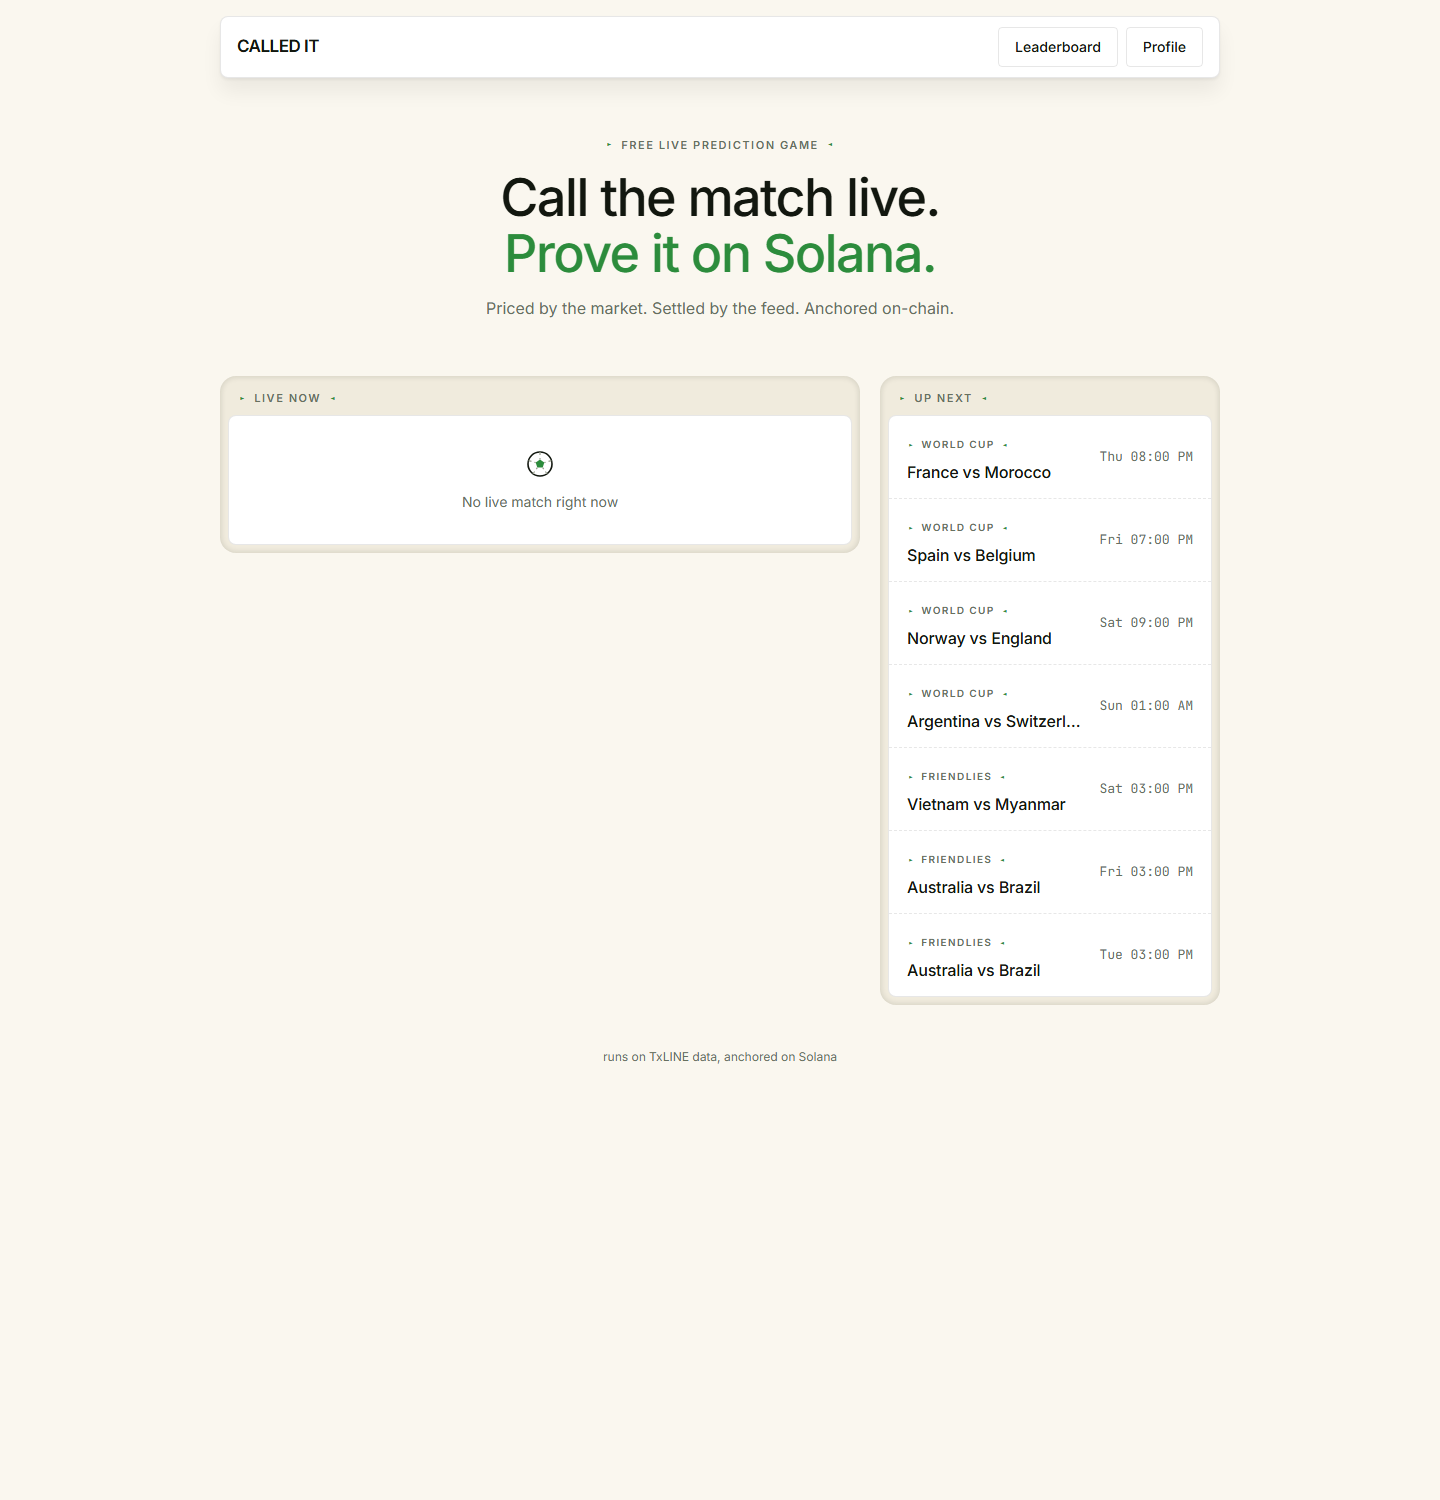
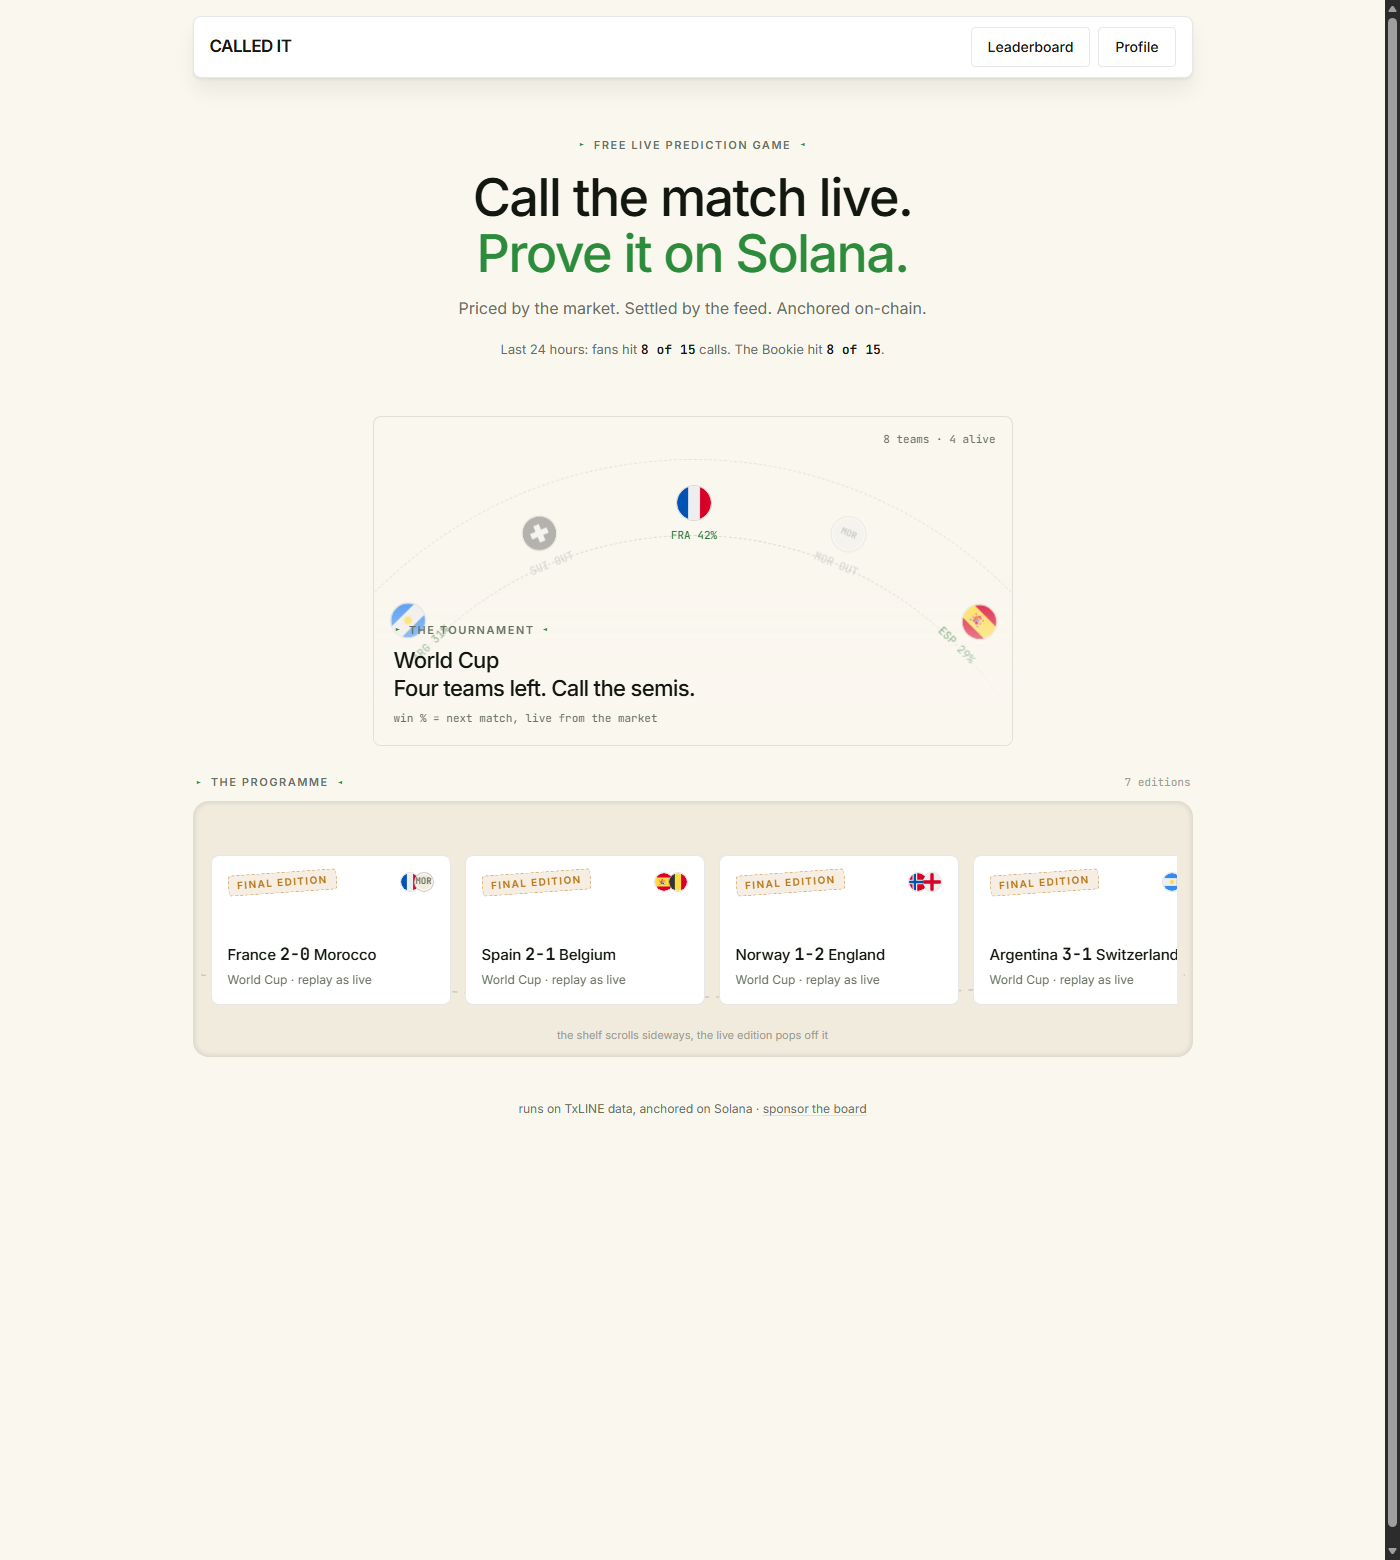
docs: rewrite README for the wheel, living pitch and sponsor surfaces

diff --git a/apps/web/lib/teams.ts b/apps/web/lib/teams.ts
@@ -30,6 +30,7 @@ const TEAM_META: Record<string, TeamMeta> = {
   Belgium: { code: 'BEL', iso: 'be' },
   Paraguay: { code: 'PAR', iso: 'py' },
   Norway: { code: 'NOR', iso: 'no' },
+  Morocco: { code: 'MAR', iso: 'ma' },
   Vietnam: { code: 'VIE', iso: 'vn' },
   Myanmar: { code: 'MYA', iso: 'mm' },
   Australia: { code: 'AUS', iso: 'au' },

diff --git a/README.md b/README.md
@@ -21,16 +21,15 @@ Experiences track.
 ![network](https://img.shields.io/badge/network-Solana%20mainnet-12170F)
 ![data](https://img.shields.io/badge/data-TxLINE%20StablePrice%20SSE-1F6B2C)
 ![stack](https://img.shields.io/badge/stack-Next%2016%20%2B%20Node%2022%20%2B%20TS-12170F)
-![tests](https://img.shields.io/badge/tests-93%20passing-1F6B2C)
+![tests](https://img.shields.io/badge/tests-133%20passing-1F6B2C)
 ![app](https://img.shields.io/badge/app-live%20on%20Vercel-2C8C3C)
 ![proof](https://img.shields.io/badge/proof-Merkle%20memo%20on%20Solana-B87514)
 
-![The lobby: the matchday programme with the live tray and the kickoff schedule](docs/screenshots/01-lobby.png)
+![The lobby: the tournament wheel over the programme rail, final scores read from the tapes](docs/screenshots/01-lobby.png)
 
-<p align="center">
-  <img src="docs/screenshots/02-receipt.png" width="460"
-    alt="A public receipt: merkle check VALID, oracle VERIFIED, anchored on Solana">
-</p>
+| The living pitch: both elevens, benches, live stat badges           | The proof: merkle VALID, oracle VERIFIED, anchored on Solana        |
+| ------------------------------------------------------------------- | ------------------------------------------------------------------- |
+| ![Kickoff XI on the pitch](docs/screenshots/02-pitch-xi.png)         | ![A public receipt](docs/screenshots/03-receipt.png)                 |
 
 ## 🎯 The problem
 
@@ -47,30 +46,44 @@ anchors every pick on Solana so the proof survives the group chat.
 
 ## 🧭 What it does
 
-- **Market-priced calls.** During a live match you lock short-window calls (a corner in
-  the next ten minutes, a goal before half-time). Points for a hit are `round(100 / p)`,
-  where `p` is the market's de-margined probability at lock time, capped at 2000.
-  Following the crowd pays little; reading an upset pays a lot.
-- **The Bookie, a ghost opponent.** Every call you make, a ghost named the Bookie makes
-  the market-favorite version of. Your leaderboard metric is your margin over the Bookie,
-  so you rise only by beating the market, not by picking safe.
-- **Provable receipts, live on mainnet.** Each locked pick is hashed into a Merkle tree
-  and its root is posted through a Solana memo transaction on a 60 second batch, before
-  the event resolves. The public receipt at `/r/{pickId}` carries the memo transaction,
-  the Merkle proof, a recomputed `proofValid` check, and, once TxODDS posts its daily
-  root, an oracle line proving the settled final against the Txoracle program on chain.
-  A receipt link unfurls in a group chat as a thermal-receipt card (Open Graph image).
-- **The Time Machine.** The worker tapes every match automatically; a finished match
-  replays through the same state and game pipeline at 1x, 10x, or 60x, with the same
-  lock flow and settlements. Replay points are session-scoped and never touch the
-  official leaderboard. Judges can play a World Cup match after the World Cup.
-- **A calibration profile.** Over many calls the app scores your edge against the market
-  and your Brier score, and buckets your hits by confidence, so a player learns whether
-  their reads are genuinely sharper than the line.
-- **A latency HUD.** The app shows the measured time from the feed emitting an event to
-  it reaching the screen, because a real-time claim should carry its own number.
-- **Streaks.** Consecutive hits multiply the next hit by 1.1 each, up to 3.0x, and a
-  miss resets the run.
+- **Market-priced calls, locked by holding.** During a live match you lock
+  short-window calls (a corner in the next ten minutes, a goal before half-time) with
+  a 500 ms hold-to-lock gesture. Points for a hit are `round(100 / p)`, where `p` is
+  the market's de-margined probability at lock time, capped at 2000. A quiet drain
+  bar shows the window closing, and when a missed window's event lands within 300
+  seconds of the deadline, an honest near-miss post-mortem prints the factual margin
+  ("the corner came 87', window closed 85'").
+- **The Bookie, a ghost opponent.** Every call you make, a ghost named the Bookie
+  makes the market-favorite version of. Your metric is your margin over the Bookie,
+  and the lobby's duel line tallies fans against the ghost over the last 24 hours.
+- **Provable receipts, live on mainnet.** Each locked pick is hashed into a Merkle
+  tree and its root is posted through a Solana memo transaction on a 60 second batch,
+  before the event resolves. The public receipt at `/r/{pickId}` carries the memo
+  transaction, the Merkle proof, a recomputed `proofValid` check, and, once TxODDS
+  posts its daily root, an oracle line proving the settled final against the Txoracle
+  program on chain. A receipt link unfurls in a group chat as a thermal-receipt card.
+- **The living pitch.** At kickoff the printed pitch presents both starting elevens
+  as jersey chips in the feed's real shirt colors, grouped in honest GK / DEF / MID /
+  FWD lines (the feed's position groups, never an invented formation), with benches
+  alongside. Substitutions swap players between pitch and bench, a red card grays the
+  player in place, scorers wear a live ball badge, and every chip opens a player card
+  with live counters and an attributed timeline ("115' Subbed on, 121' Goal"). A team
+  stats view lists both full squads with counters updating in real time.
+- **The Time Machine and the programme rail.** The worker tapes every match
+  automatically; a finished match replays through the same state and game pipeline at
+  1x, 10x, or 60x, with the same lock flow and settlements, session-scoped and off
+  the official leaderboard. Finished editions sit on the lobby's curved programme
+  rail with final scores read back from the tapes, under a tournament wheel that
+  marks eliminated teams OUT and prices the survivors' next match live.
+- **Three sponsorship surfaces.** A named match reskin (`?sponsor=` demo), a sponsor
+  line on shared receipts, and a self-serve board: anyone can buy ticker time in SOL
+  at `/sponsor`, priced by duration, tier, and demand; the worker builds the unsigned
+  transfer and verifies the payment on chain (amount, recipient, single-use memo)
+  before the name rides the header boards.
+- **A measured skill profile.** Calibration buckets, edge versus the market, a Brier
+  score, streaks that multiply the next hit by 1.1 up to 3.0x, and a latency HUD
+  showing the measured feed-to-screen delay, because a real-time claim should carry
+  its own number.
 
 ## 🏗 How it works
 
@@ -83,10 +96,11 @@ flowchart TD
     end
     subgraph worker["Worker on Railway, Node 22, 24/7"]
         ingest["ingest: dual SSE + reconnect"]
-        state["match state reducer"]
+        state["state reducer: score, momentum, squads"]
         engine["engine: price, resolve, Bookie, calibration"]
         commit["commitment batcher: Merkle root every 60s"]
         verify["oracle verifier: validate_stat view"]
+        sponsors["sponsor board: SOL quote + verify"]
         tapes["NDJSON tapes"]
         replay["Time Machine replay sessions"]
         fanout["HTTP + SSE fan-out"]
@@ -98,24 +112,25 @@ flowchart TD
         engine --> fanout
         engine --> commit
         verify --> fanout
+        sponsors --> fanout
     end
     subgraph db["Supabase, Postgres"]
-        picks["picks + settlements"]
-        boards["leaderboard views"]
+        picks["picks + settlements + sponsors"]
     end
     subgraph web["Web app, Next.js 16 on Vercel"]
-        lobby["lobby, live match, replay"]
+        lobby["lobby, live match, replay, /sponsor"]
         receipt["public receipt /r/id"]
     end
     subgraph solana["Solana mainnet"]
         memo["Memo tx, Merkle root"]
+        pay["sponsor payment tx"]
         txoracle["Txoracle daily_scores_roots"]
     end
-    scores -->|"goal, corner, card, Confirmed"| ingest
+    scores -->|"goal, corner, card, lineups, Confirmed"| ingest
     odds -->|"de-margined percent"| ingest
     engine -->|"settle_pick RPC"| picks
-    picks --> boards
     commit -->|"posted before outcomes"| memo
+    sponsors -->|"single-use memo check"| pay
     statval -->|"Merkle proof of finals"| verify
     verify -->|"view(), read-only"| txoracle
     lobby -->|"POST /picks, GET /live SSE"| fanout
@@ -125,24 +140,28 @@ flowchart TD
     classDef store fill:#FFFFFF,stroke:#67705F,color:#12170F
     classDef chain fill:#F6F3EA,stroke:#B87514,color:#12170F
     class scores,odds,statval feed
-    class ingest,state,engine,commit,verify,tapes,replay,fanout,lobby,receipt svc
-    class picks,boards store
-    class memo,txoracle chain
+    class ingest,state,engine,commit,verify,sponsors,tapes,replay,fanout,lobby,receipt svc
+    class picks store
+    class memo,pay,txoracle chain
 ```
 
 Beige, TxLINE inputs; green, CALLED IT services; white, Postgres; paper, Solana.
 
 The worker consumes both TxLINE streams as a single server-side subscriber and fans
 results out, so a match is read once no matter how many clients watch. It survives the
-feed misbehaving: reconnect with backoff, a stall watchdog, and a shared refresh when the
-guest token expires mid-stream. Settlement credits only events the feed marks
-`Confirmed`, so a VAR reversal does not pay a call that was overturned. When a match ends
-the feed zeroes the clock, so a finished-match sweep forces final verdicts rather than
-leaving picks pending. The commitment batcher tolerates a failed memo: it records nothing
-for that batch and retries, so a pick is never marked committed without a real
-transaction. Oracle verification failing never breaks a receipt: the oracle line renders
-a distinct `pending` or `unavailable` status instead. If Supabase is absent the worker
-still runs, in memory, and logs that state is not durable.
+feed misbehaving: reconnect with backoff, a stall watchdog, and a shared refresh when
+the guest token expires mid-stream. Settlement credits only events the feed marks
+`Confirmed`, so a VAR reversal does not pay a call that was overturned. When a match
+ends the feed zeroes the clock, so a finished-match sweep forces final verdicts rather
+than leaving picks pending. The commitment batcher tolerates a failed memo: it records
+nothing for that batch and retries, so a pick is never marked committed without a real
+transaction. Oracle verification failing never breaks a receipt: the oracle line
+renders a distinct `pending` or `unavailable` status instead. A sponsor payment that
+cannot be verified on chain activates nothing, and a transaction signature is
+single-use by unique index, so a paid slot cannot be replayed. When a tape predates
+the feed's lineups records, every squad surface stays absent instead of rendering an
+empty shell. If Supabase is absent the worker still runs, in memory, and logs that
+state is not durable.
 
 ### The call model
 
@@ -153,9 +172,9 @@ still runs, in memory, and logs that state is not durable.
 | A card in the next 15 min | Poisson model, 0.044 per min | a Confirmed yellow or red lands in the window |
 | Underdog still alive at 80' | live StablePrice market | the underdog win probability at 80' clears 15 percent |
 
-Points are `round(100 / p)` capped at 2000; streaks multiply by 1.1 per consecutive hit
-up to 3.0x. The Bookie ghost takes the market-favorite side of each call and never uses
-streaks, so its score is the market's own baseline.
+Points are `round(100 / p)` capped at 2000; streaks multiply by 1.1 per consecutive
+hit up to 3.0x. The Bookie ghost takes the market-favorite side of each call and never
+uses streaks, so its score is the market's own baseline.
 
 ## ⚡ Live and measured
 
@@ -163,6 +182,7 @@ streaks, so its score is the market's own baseline.
 | --- | --- |
 | Live app | [called-it-web-murex.vercel.app](https://called-it-web-murex.vercel.app) |
 | Proven receipt, merkle VALID + oracle VERIFIED | [/r/836a7729...](https://called-it-web-murex.vercel.app/r/836a7729-6ae0-4139-9248-5b79cfb87de1) |
+| Self-serve sponsor board, priced in SOL | [/sponsor](https://called-it-web-murex.vercel.app/sponsor) |
 | Worker API, live health | [worker-production-6555.up.railway.app/health](https://worker-production-6555.up.railway.app/health) |
 | Proven pick, memo transaction | [tx 5Ppi...pqsQM](https://explorer.solana.com/tx/5PpiUYU6WgsfsN1cDwntTxK9XaWcdg5b1fZd5b2kRA3F8KQwMnXLE8GSaU9eoNMKjrGAcbGudEQLX54qDxDpqsQM) |
 | Mainnet subscription, Service Level 12 | [tx DnHr...5bGx](https://explorer.solana.com/tx/DnHrZaGbp8fd84hsGJa1EeTAkfHMjvjZUrpT6Ktb8K2Dk5rKz6LQSsXgLRnWVRtdX9VcCjTfKxtc3ajvMN75bGx) |
@@ -172,20 +192,20 @@ Evidence:
 
 - **The full loop ran on mainnet during a live match.** A real pick was locked during
   Paraguay vs France, settled on a Confirmed corner for +150 points, and committed on
-  chain. The memo transaction above is `finalized` with no error, and the public receipt
-  recomputes its Merkle proof to `proofValid: true`.
-- **The settled outcome is proven against TxODDS's own on-chain root.** The same receipt
-  carries `oracle: corners 2-12 VERIFIED`: the worker fetched the stat-validation Merkle
-  proof and `Txoracle.validate_stat(...).view()` confirmed it against the
-  `daily_scores_roots` account. The negative control holds too: the same call with the
-  value shifted by one returns false (runbook in
+  chain. The memo transaction above is `finalized` with no error, and the public
+  receipt recomputes its Merkle proof to `proofValid: true`.
+- **The settled outcome is proven against TxODDS's own on-chain root.** The same
+  receipt carries `oracle: corners 2-12 VERIFIED`: the worker fetched the
+  stat-validation Merkle proof and `Txoracle.validate_stat(...).view()` confirmed it
+  against the `daily_scores_roots` account. The negative control holds too: the same
+  call with the value shifted by one returns false (runbook in
   [spike/src/08-stat-validation.ts](spike/src/08-stat-validation.ts)).
-- **The worker runs 24/7 on Service Level 12 (real-time).** A recent `/health` sample
-  reported scores latency p50 149 ms and p95 170 ms, odds p50 225 ms, over a rolling
-  200-sample window from a San Francisco region. The endpoint is live; read it for the
-  current numbers.
-- **Settlement can say no.** The committed test fixture (USA vs Bosnia) contains a VAR
-  overturn, and the engine credits only the `Confirmed` final of 2 goals, not the
+- **The worker runs 24/7 on Service Level 12 (real-time).** A `/health` sample during
+  a live match reported scores latency p50 149 ms and p95 170 ms over a rolling
+  200-sample window from a San Francisco region. The endpoint is live; read it for
+  the current numbers.
+- **Settlement can say no.** The committed test fixture (USA vs Bosnia) contains a
+  VAR overturn, and the engine credits only the `Confirmed` final of 2 goals, not the
   intermediate state. See
   [packages/engine/src/replay.test.ts](packages/engine/src/replay.test.ts).
 
@@ -197,13 +217,13 @@ Prerequisites: Node 22 or newer, pnpm 11.9.0.
 pnpm install
 cp .env.example .env
 pnpm -r run typecheck
-pnpm --filter @calledit/engine test   # 42 tests
-pnpm --filter @calledit/worker test   # 51 tests
+pnpm --filter @calledit/engine test   # 50 tests
+pnpm --filter @calledit/worker test   # 83 tests
 ```
 
-Success: each command exits 0 with every assertion passing (42 and 51, checked in this
-session). No network or wallet is needed for the test suites; they run against committed
-captures of real matches.
+Success: each command exits 0 with every assertion passing (50 and 83, checked in
+this session). No network or wallet is needed for the test suites; they run against
+committed captures of real matches.
 
 To run the player interface against the live worker:
 
@@ -212,8 +232,8 @@ pnpm --filter @calledit/web dev       # serves on http://localhost:3000
 ```
 
 To run the live worker yourself you also need TxLINE access (a Solana wallet and an
-on-chain subscription, see [spike/README.md](spike/README.md)) and, for durable storage,
-a Supabase project. Then:
+on-chain subscription, see [spike/README.md](spike/README.md)) and, for durable
+storage, a Supabase project. Then:
 
 ```bash
 pnpm --filter @calledit/worker start  # serves on port 8787
@@ -222,26 +242,38 @@ pnpm --filter @calledit/worker start  # serves on port 8787
 ## ⚠️ What is real and what is mocked
 
 - **Micro-event calls are model-priced, not market-quoted.** Corner, goal, and card
-  windows are priced by a transparent Poisson model with documented per-minute rates in
-  [packages/engine/src/catalog.ts](packages/engine/src/catalog.ts). Only the underdog call
-  reads the live StablePrice market. Fitting the micro model to captured tapes is pending.
-- **The oracle line depends on TxODDS's posting cadence.** The daily root for a match day
-  appears hours after full time, so a fresh receipt shows `oracle: proof pending` on match
-  night and `VERIFIED` the next day. Market-priced calls have no on-chain stat to prove
-  and say so with a distinct status.
-- **The hero receipt predates the fixture-name cache.** The mainnet fixtures window is
-  future-only, so the proven Paraguay vs France receipt shows no team names; picks locked
-  since 2026-07-10 carry them.
-- **Guest identity only.** Players authenticate with a hashed guest token stored in the
-  browser; there are no full accounts, and losing the token means starting a new player.
-- **Replay sessions are in-memory.** A Time Machine session (cap 6 concurrent, 30 minute
-  idle timeout) disappears on worker restart; tapes themselves are durable on a volume.
-- **Abuse controls are minimal.** Public POST endpoints validate input and enforce game
-  rules but are not yet rate limited; that hardening pass is scheduled before submission.
+  windows are priced by a transparent Poisson model with documented per-minute rates
+  in [packages/engine/src/catalog.ts](packages/engine/src/catalog.ts). Only the
+  underdog call reads the live StablePrice market. Fitting the micro model to
+  captured tapes is pending.
+- **The sponsor board's first real purchase is pending.** The whole mechanic is
+  deployed and unit-tested: quotes, the unsigned transfer built by the worker, and
+  on-chain verification of amount, recipient, and a single-use memo. No third party
+  has paid for a slot yet. The "Volt" name on match screens is a demo reskin driven
+  by the `?sponsor=` parameter, and the jackpot line under it is a labeled sample
+  slot, not a real prize.
+- **Player data goes exactly as far as the feed does.** Lineups carry names, shirt
+  numbers, and position groups, so the pitch shows group lines, never a tactical
+  formation. The feed attributes goals, cards, substitutions, and injuries to
+  players; it never says who has the ball or who takes a corner, and it serves no
+  photos, so players are printed roundels. Tapes recorded before TxLINE added
+  lineups have no squad surfaces at all.
+- **The oracle line depends on TxODDS's posting cadence.** The daily root for a match
+  day appears hours after full time, so a fresh receipt shows `oracle: proof pending`
+  on match night and `VERIFIED` the next day. Model-priced calls have no on-chain
+  stat to prove and say so with a distinct status.
+- **The hero receipt predates the fixture-name cache.** The mainnet fixtures window
+  is future-only, so the proven Paraguay vs France receipt shows no team names; picks
+  locked since 2026-07-10 carry them.
+- **Identity is guest-first; the wallet link is optional recovery.** Players get a
+  hashed guest token in the browser; linking a Solana wallet (a signed single-use
+  challenge, never a transaction) lets a profile be restored on another device.
+  Losing the token with no linked wallet means starting a new player.
+- **Replay sessions are in-memory.** A Time Machine session (cap 6 concurrent, 30
+  minute idle timeout) disappears on worker restart; the tapes themselves are durable
+  on a volume, and final scores on the lobby rail are read from those tapes.
 - **Free-tier Supabase pauses after 7 idle days.** A daily worker heartbeat keeps it
   awake through the judging window in late July.
-- **The leaderboard still contains a few named test users** from deployment checks;
-  they are being cleaned at the demo freeze.
 
 ## 🔗 Prior art
 
@@ -249,8 +281,9 @@ pnpm --filter @calledit/worker start  # serves on port 8787
   rubric. CALLED IT prices every call by the live market instead.
 - **Amazon Prime Vision Next Gen Stats**: probability-enriched viewing, but
   broadcast-only and not a game.
-- **Sports betting apps**: real stakes and the gambling wall. CALLED IT is free-to-play
-  with no stakes and no payouts.
+- **Sports betting apps**: real stakes and the gambling wall. CALLED IT is
+  free-to-play with no stakes and no payouts, which is also why it needs no gambling
+  license (no consideration, no prize purchase).
 
 ## 📦 Repository layout
 
@@ -258,14 +291,14 @@ pnpm --filter @calledit/worker start  # serves on port 8787
 packages/txline/     typed TxLINE client: auth, REST, SSE streams
 packages/engine/     pure game engine: pricing, calls, resolution, Bookie, calibration
 packages/contracts/  shared wire types between worker and web
-apps/worker/         live worker: ingest, state, fan-out, tapes, commitments, game service
-apps/web/            Next.js player interface: lobby, live match, receipt, leaderboard, profile
-db/                  Postgres schema (Supabase migration)
+apps/worker/         live worker: ingest, state, fan-out, tapes, commitments, sponsors, game service
+apps/web/            Next.js player interface: lobby, live match, replay, receipt, sponsor board
+db/                  Postgres schema (Supabase migrations)
 spike/               API access runbook, observation scripts, mainnet IDL
-docs/                OpenAPI spec, API feedback, design system, assets
+docs/                OpenAPI spec, API feedback, design system, technical brief, assets
 ```
 
-Next milestones: the demo video and the submission page. Everything else described here
-is built, tested, and running in production; the technical brief lives at
+Next milestones: the demo video and the submission page. Everything else described
+here is built, tested, and running in production; the technical brief lives at
 [docs/TECH_DOC.md](docs/TECH_DOC.md) and the API feedback at
 [docs/FEEDBACK.md](docs/FEEDBACK.md).